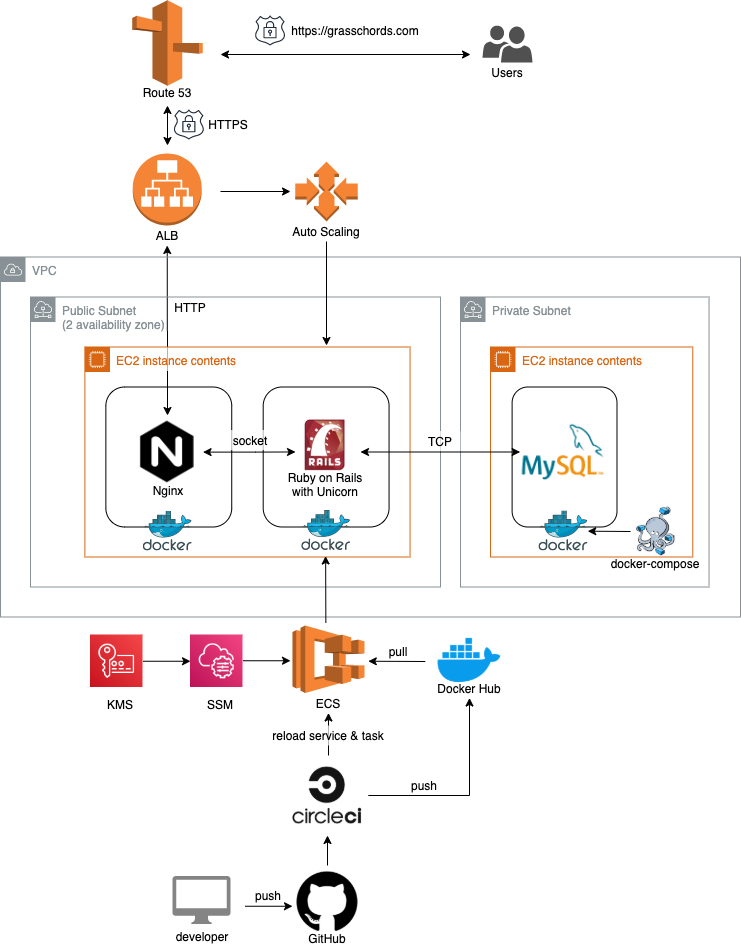
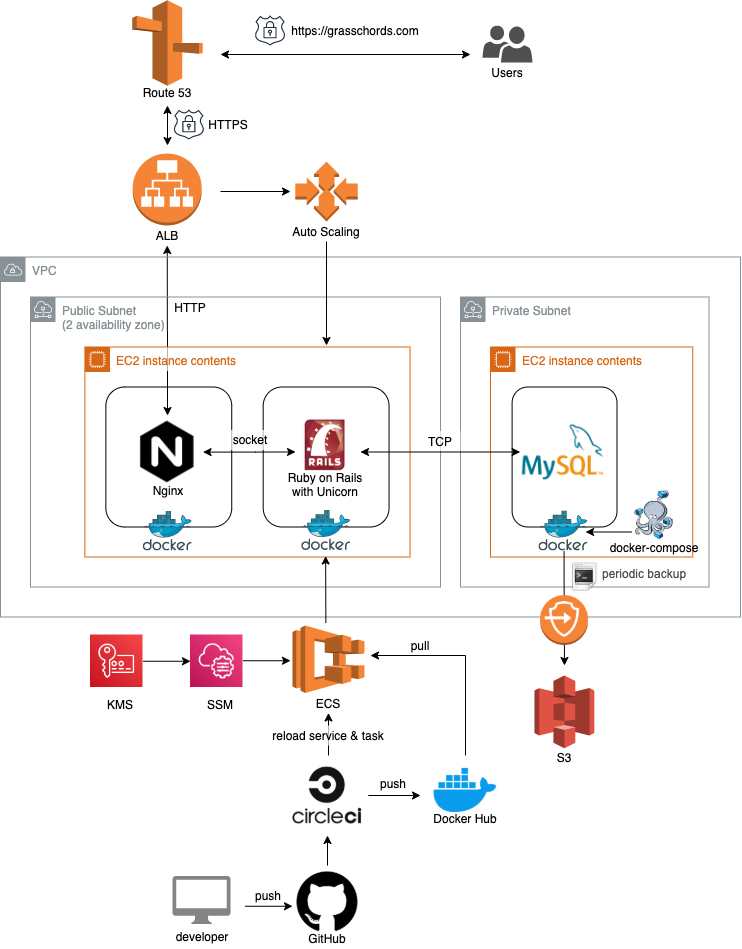
create_shell_db_backup
## what
- MySQLダンプを生成するためのshファイル作成(db_backup.sh)
- MySQLコンテナ内に設置したダンプ生成shファイルを実行するshファイル作成(execute_db_backup.sh)
※execute...shをcron実行
- MySQLのdocker-composeファイルにおける環境変数の設定値をホストPCの環境変数から読み取る仕様に変更
- 本ブランチの変更内容をreadmeに反映

## why
- DBサーバがダウンした際にも復旧できるようにするため
- docker-composeファイルの記述を環境変数化することで、オープンソース化を進めた

diff --git a/README.md b/README.md
@@ -22,10 +22,11 @@
 - Web サーバ(nginx, unicorn)
 - データベース(MySQL)
 - コンテナ(Docker, docker-compose)
-- AWS(VPC, EC2, Route53, ELB, ACM, ECS, SSM, KMS, CLI)
-- 開発環境(VScode, Git, GitHub, CircleCI)
+- AWS(VPC, EC2, Route53, ELB, ACM, ECS, SSM, KMS, S3, CloudWatch, CLI)
+- 開発環境(VScode, Git, GitHub, CircleCI, shell script)
 
 # インフラ構成
+
 ![environment](./public/images/GrassChords_Env.png)
 
 # 機能要件
@@ -77,7 +78,7 @@
 - HTTPS 接続
 - ロードバランシング
 - ローリングアップデート
-- サーバ構成 Web サーバ 2 台(ECS クラスター), DB サーバ 1 台
+- データベースの定期バックアップ(shellscript + S3)
 - モデル/コントローラの単体テスト(rspec)
 - 統合テスト(capybara)
 
